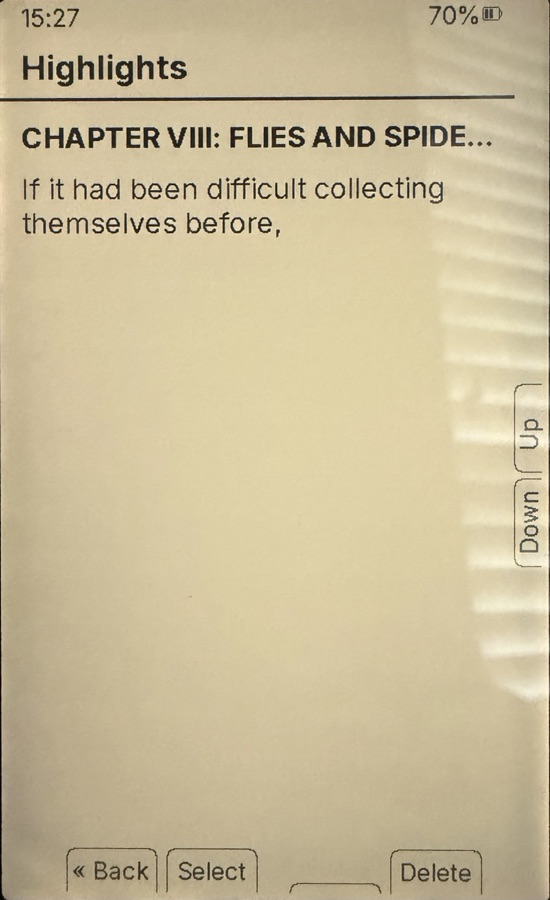
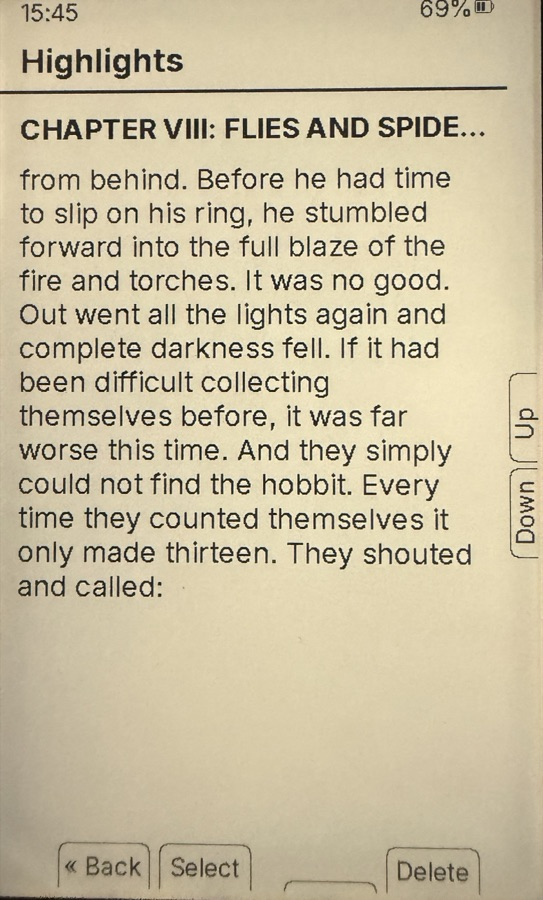
docs: a preview shot that carries a real passage
Swapped for a longer highlight. A whole paragraph fits the preview with room
to spare, which makes the point better than the one-line highlight did.

diff --git a/README.md b/README.md
@@ -111,7 +111,7 @@ Every highlight in the book is one screen away. **Select** jumps straight back t
 <table>
 <tr>
 <td align="center"><img src="docs/images/highlights-list.jpg" width="250"><br><sub>The list</sub></td>
-<td align="center"><img src="docs/images/highlights-preview.jpg" width="250"><br><sub>Preview in full</sub></td>
+<td align="center"><img src="docs/images/highlights-preview.jpg" width="250"><br><sub>Preview in full, scrolling if it needs to</sub></td>
 </tr>
 </table>
 
